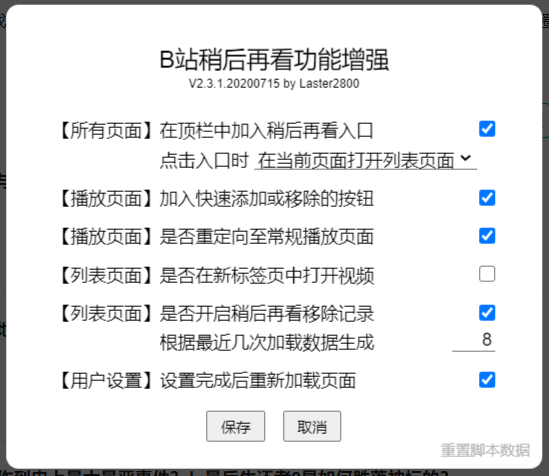
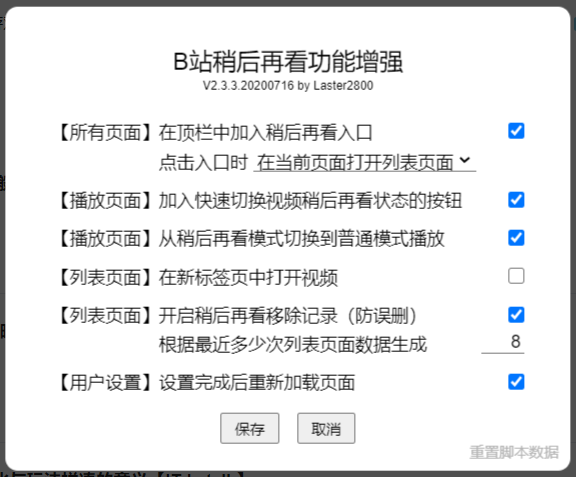
B站稍后再看功能增强：说人话，UI 中的文本改为正常人能看得懂的语言

diff --git a/BilibiliWatchlaterPlus/BilibiliWatchlaterPlus.js b/BilibiliWatchlaterPlus/BilibiliWatchlaterPlus.js
@@ -1,7 +1,7 @@
 // ==UserScript==
 // @id             BilibiliWatchlaterPlus@Laster2800
 // @name           B站稍后再看功能增强
-// @version        2.3.2.20200715
+// @version        2.3.3.20200716
 // @namespace      laster2800
 // @author         Laster2800
 // @description    B站稍后再看功能增强，目前功能包括UI增强、重定向至常规播放页、稍后再看移除记录等，支持功能设置
@@ -127,7 +127,7 @@
     background-color: #ffffff;
     border-radius: 10px;
     z-index: 65535;
-    min-width: 36em;
+    min-width: 38em;
 }
 #gm395456 .gm_setting #gm_maintitle {
     cursor: pointer;
@@ -412,16 +412,16 @@
             </label>
         </div>
         <label class="gm_item" title="在常规播放页面中加入能将视频快速切换添加或移除出稍后再看列表的按钮">
-            <span>【播放页面】加入快速添加或移除的按钮</span><input id="gm_videoButton" type="checkbox"></label>
+            <span>【播放页面】加入快速切换视频稍后再看状态的按钮</span><input id="gm_videoButton" type="checkbox"></label>
         <label class="gm_item" title="是否自动从【www.bilibili.com/medialist/play/watchlater/p*】页面切换至【www.bilibili.com/video/BV*】页面播放">
-            <span>【播放页面】是否重定向至常规播放页面</span><input id="gm_redirect" type="checkbox"></label>
+            <span>【播放页面】从稍后再看模式切换到普通模式播放</span><input id="gm_redirect" type="checkbox"></label>
         <label class="gm_item" title="在【www.bilibili.com/watchlater/#/list】页面点击时，是否在新标签页打开视频">
-            <span>【列表页面】是否在新标签页中打开视频</span><input id="gm_openInNew" type="checkbox"></label>
+            <span>【列表页面】在新标签页中打开视频</span><input id="gm_openInNew" type="checkbox"></label>
         <div class="gm_item">
             <label title="保留最近几次打开【www.bilibili.com/watchlater/#/list】页面时稍后再看列表的记录，以查找出这段时间内将哪些视频移除出稍后再看，用于防止误删操作">
-                <span>【列表页面】是否开启稍后再看移除记录</span><input id="gm_removeHistory" type="checkbox"></label>
+                <span>【列表页面】开启稍后再看移除记录（防误删）</span><input id="gm_removeHistory" type="checkbox"></label>
             <div class="gm_subitem" title="范围：${rhsMin}~${rhsMax}。请不要设置过大的数值，否则会带来较大的开销。而且移除记录并非按移除时间排序，设置过大的历史范围反而会给误删视频的定位造成麻烦。该项修改后，会立即对过时记录进行清理，重新修改为原来的值无法还原被清除的记录！">
-                <span>根据最近几次加载数据生成</span><input id="gm_removeHistorySaves" type="text"></div>
+                <span>根据最近多少次列表页面数据生成</span><input id="gm_removeHistorySaves" type="text"></div>
         </div>
         <label class="gm_item" title="用户设置完成后，某些选项需重新加载页面以生效，是否立即重新加载页面">
             <span>【用户设置】设置完成后重新加载页面</span><input id="gm_reloadAfterSetting" type="checkbox"></label>
